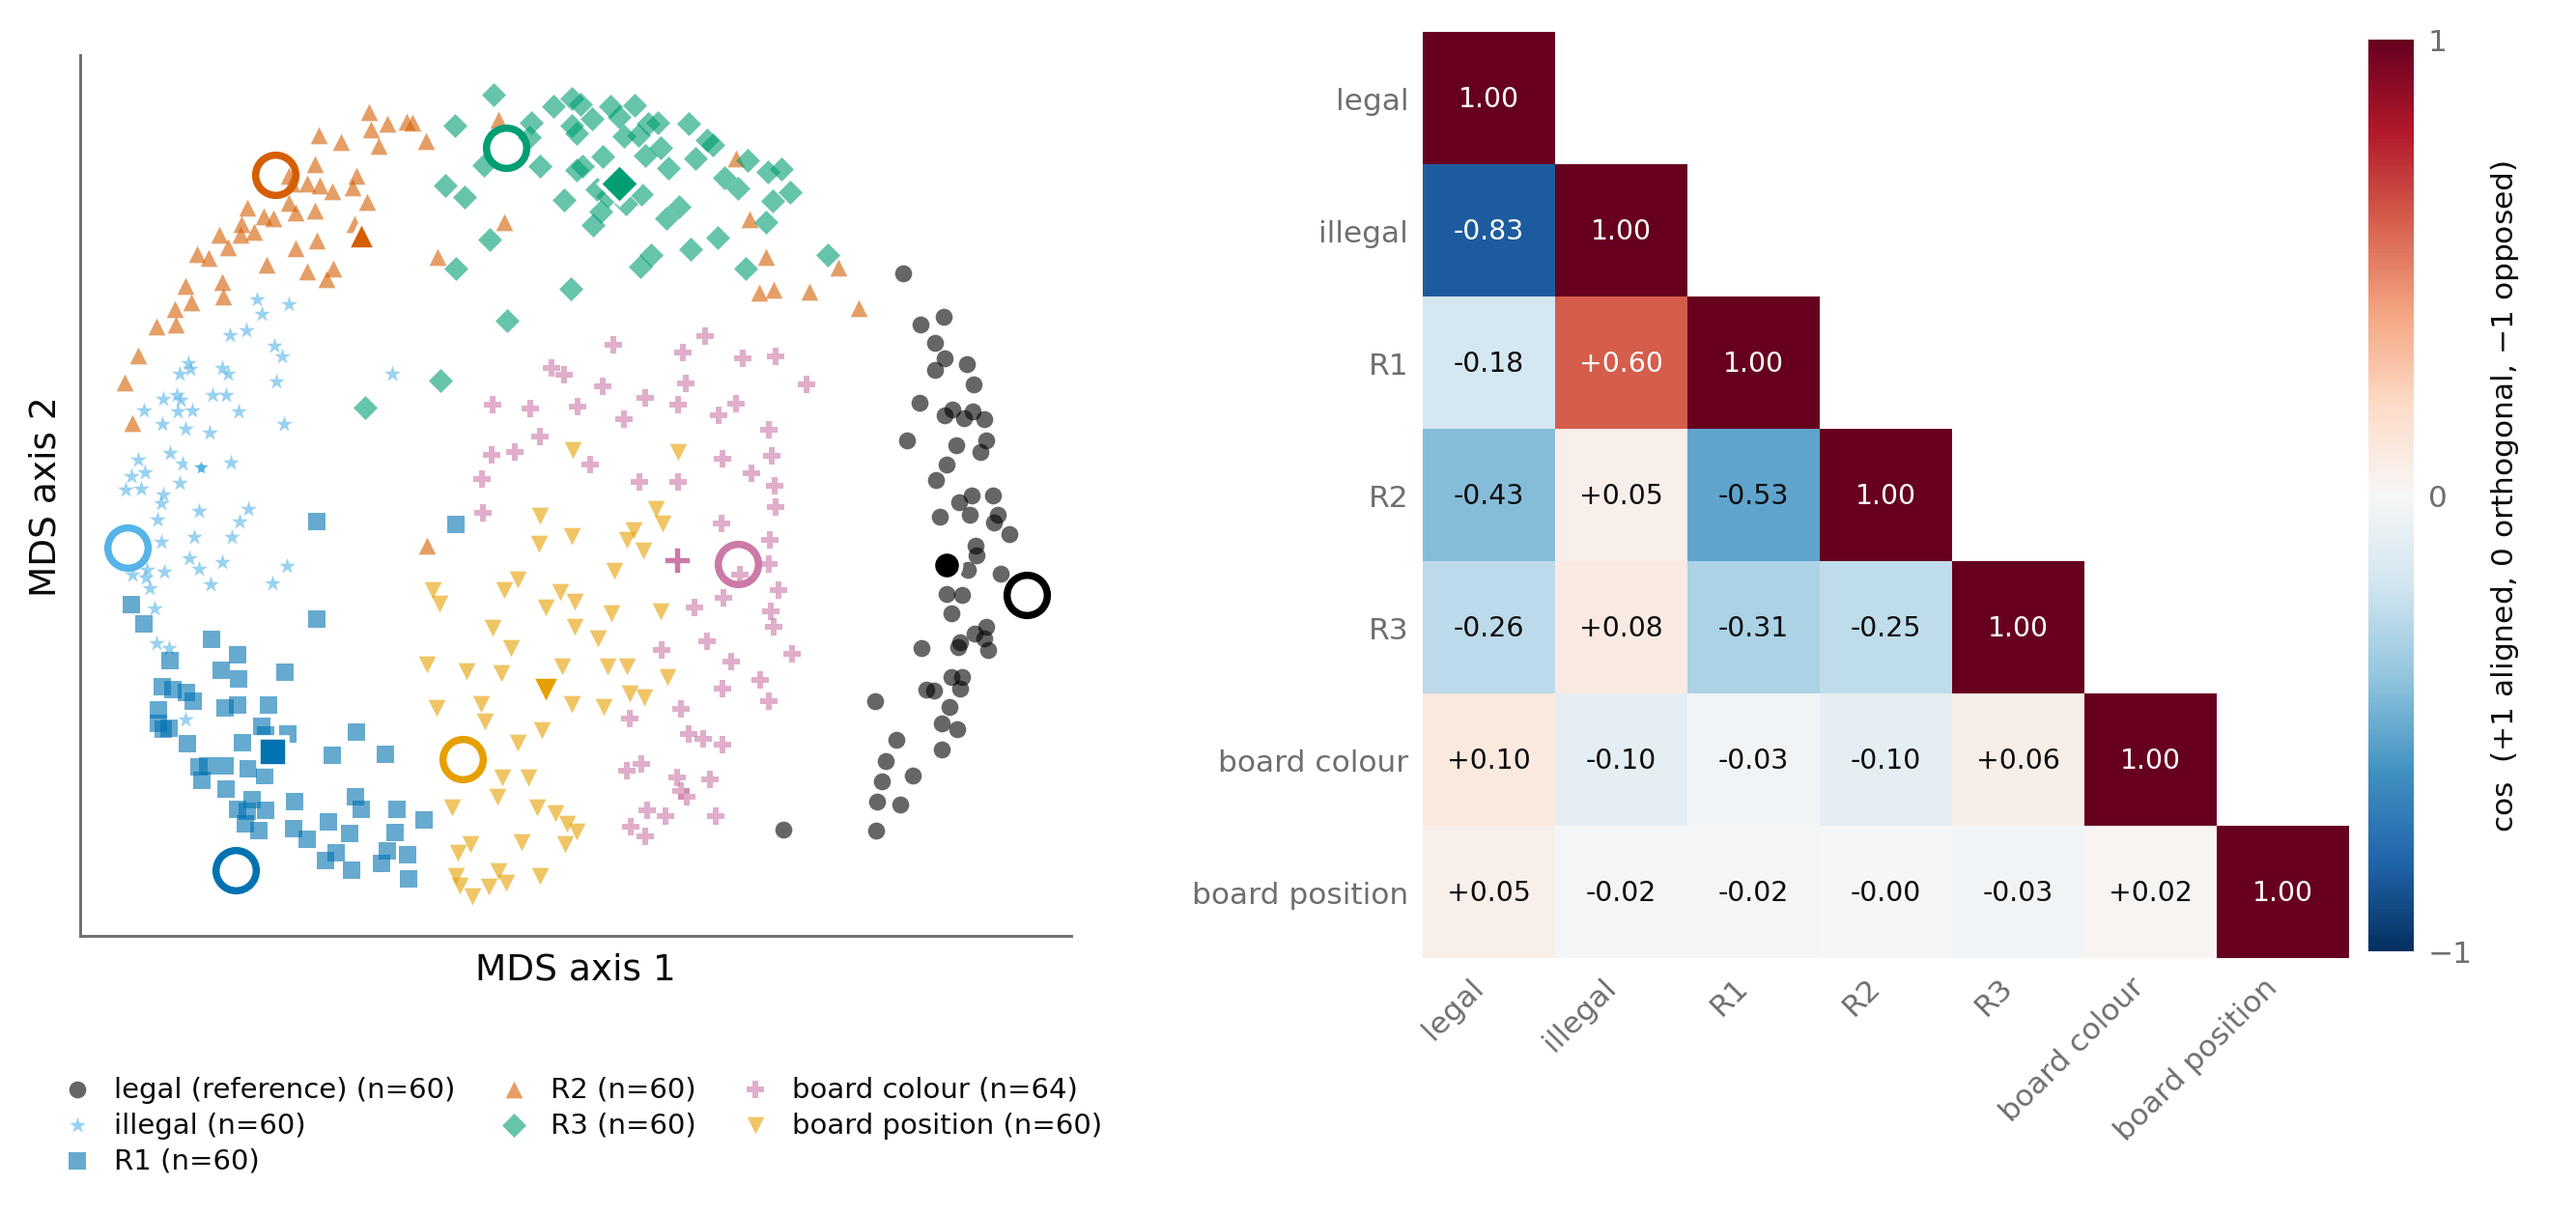
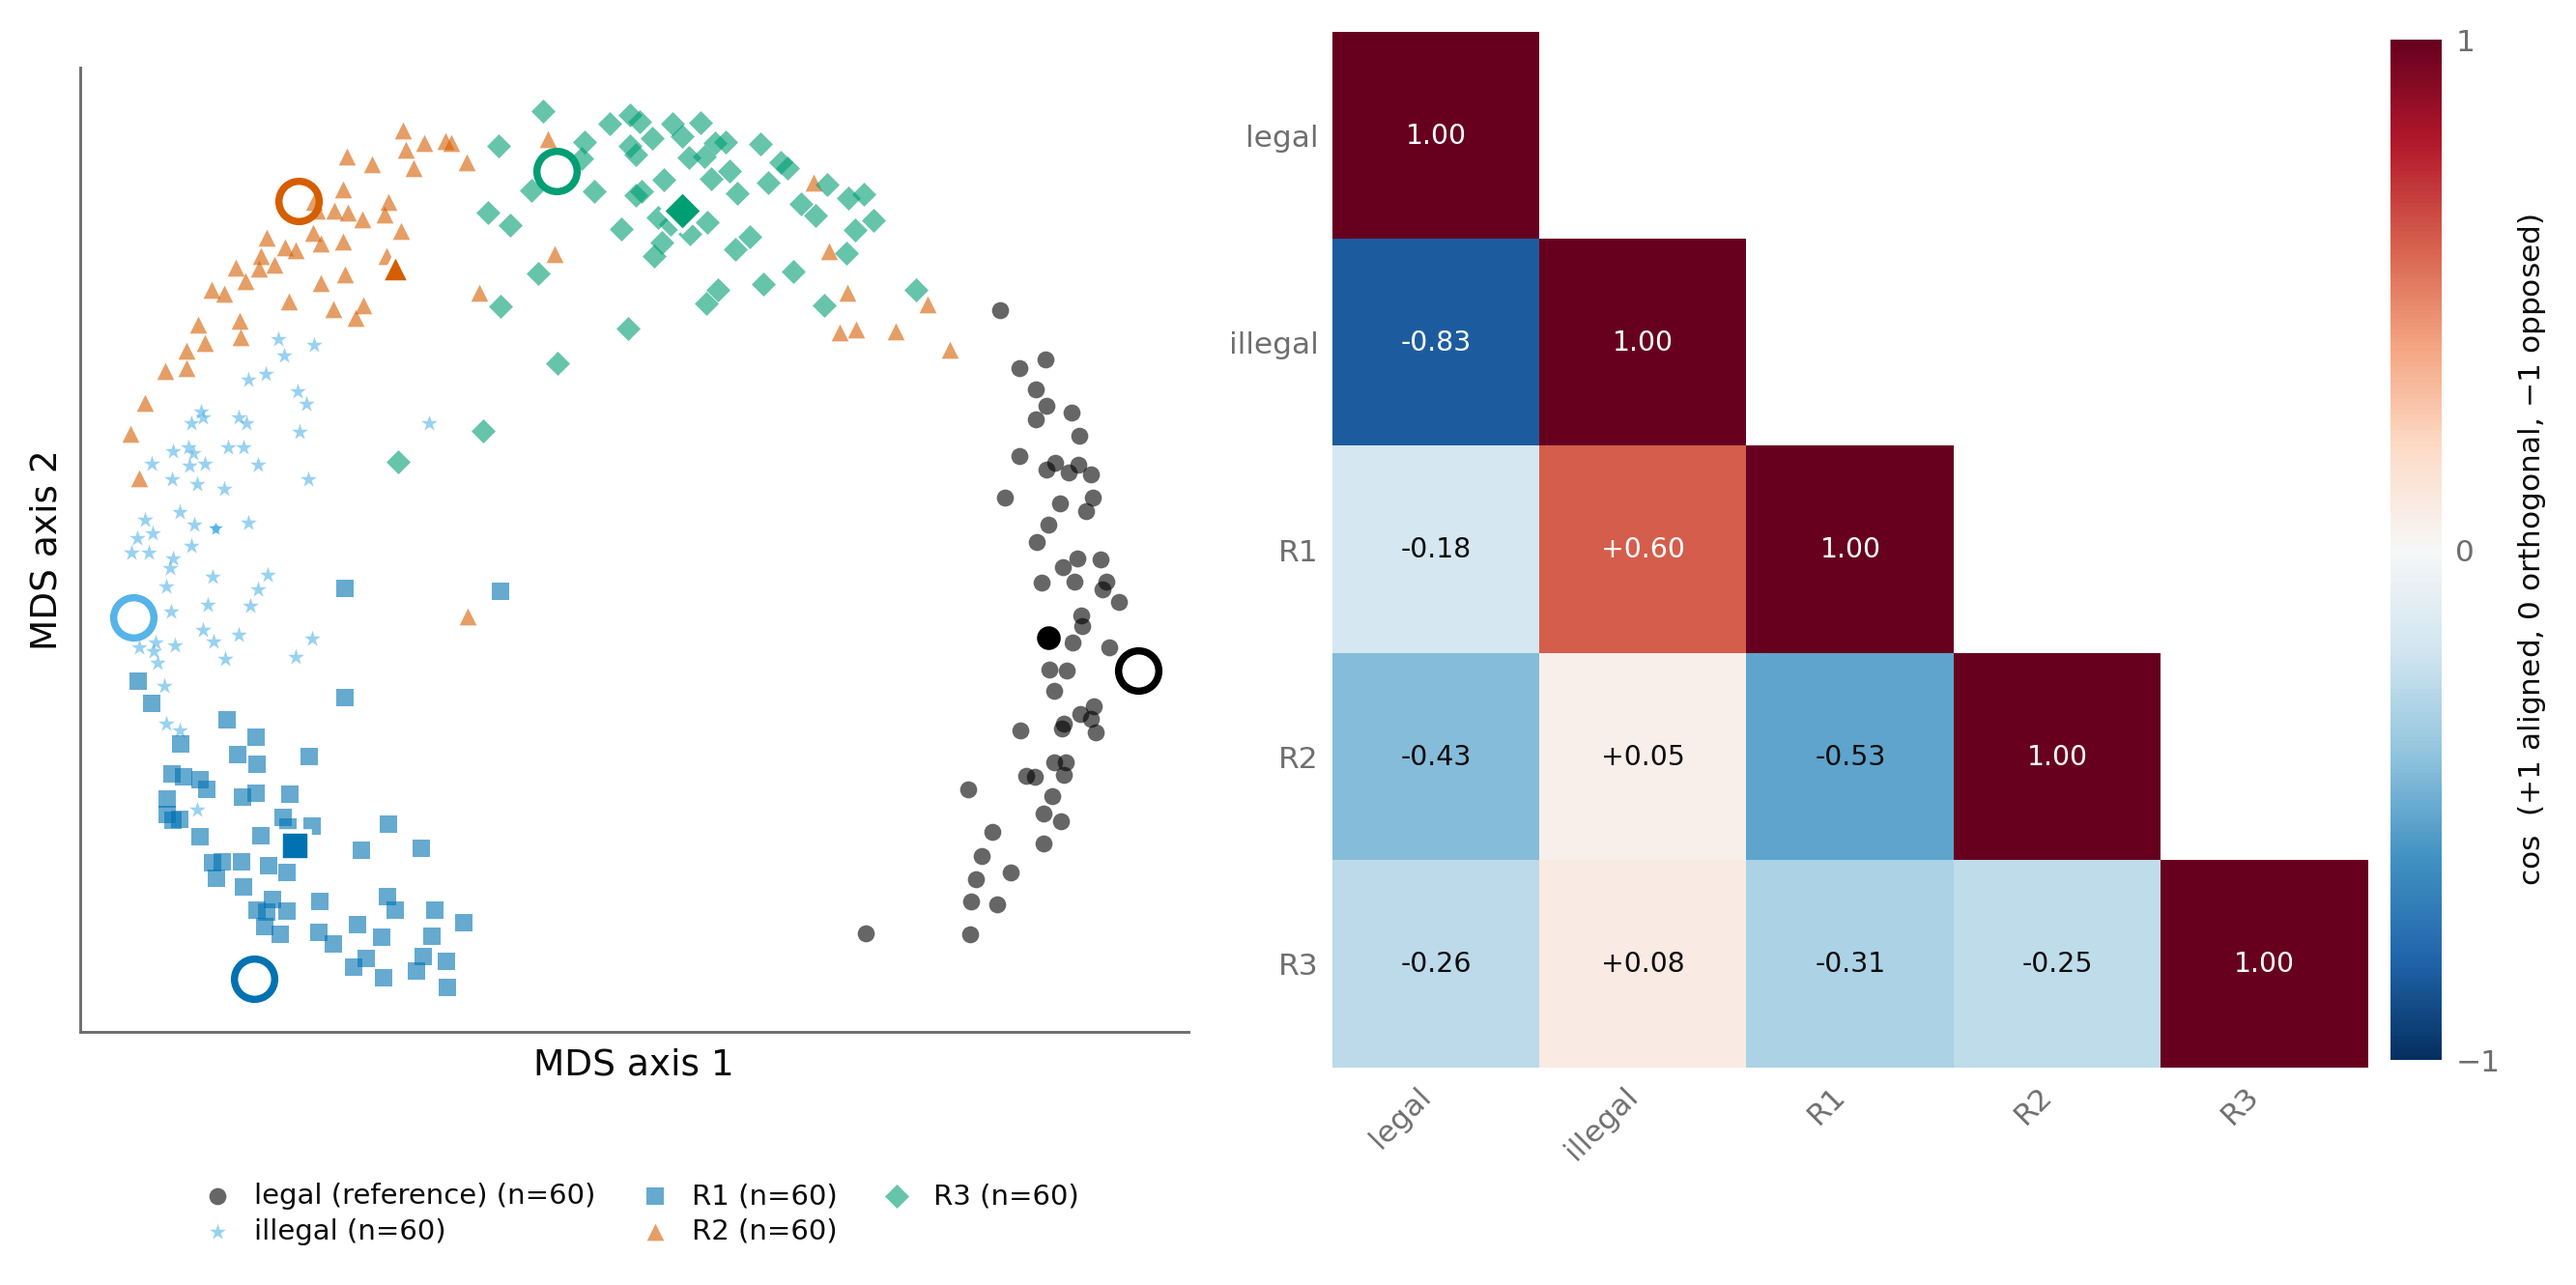
Probe geometry fig 1: the rule directions only
DIRECTION_ORDER drops colour and occupancy, so both panels lose them. The
families keep their style entries and every number in results/; the figure is
about the rule directions. The MDS is still fit on all 424 directions -- the
hole in the cloud is where the board families sat -- and the README says so.

diff --git a/src/spade/figures/paper_style.py b/src/spade/figures/paper_style.py
@@ -243,7 +243,10 @@ DIRECTION_STYLE = {
     # only ones that interpenetrate, at a luminance gap of 0.019.
     "occupancy": {"color": "#E69F00", "marker": "v", "label": "board position"},
 }
-DIRECTION_ORDER = ("legal", "illegal", "R1", "R2", "R3", "colour", "occupancy")
+# What fig 1 draws, in order. The two board families are measured -- they are in
+# every results/ table and in the README -- and not drawn: the figure is about the
+# rule directions.
+DIRECTION_ORDER = ("legal", "illegal", "R1", "R2", "R3")
 
 # Probe family and label basis: two dimensions that cross in the depth sweep.
 # The linear probe is the capacity reference, so it takes REFERENCE's black; the

diff --git a/analysis/probe_geometry/README.md b/analysis/probe_geometry/README.md
@@ -136,9 +136,11 @@ What the panels do not print, so a reader does not have to infer it:
   0.574 ± 0.007, SD over 5 draws, and it is *above* the embedding's own 0.504: the
   layout is evidence about families and never about individual squares. The committed
   probe is drawn open because it is not the family centroid — for R1 the two are 1.3
-  within-family radii apart — and for the board families that "committed" direction is
-  itself the mean of the per-square vectors, since the board probe has no pooled
-  direction of its own.
+  within-family radii apart. **The two board families are not drawn**, but the layout was
+  fit with them in it: the SMACOF configuration is over all 424 directions, so the hole in
+  the middle of the cloud is where `colour` and `occupancy` sat, and the rule families'
+  positions relative to each other are the ones that solved the full problem. Their cosines
+  are in `results/type_cosines.csv` and the tables.
 - `fig1_direction_geometry.png` / `.pdf` panel (b) — cosines are point estimates off the
   committed probes, with no interval; the game-level bootstrap for the same quantities is
   in `results/cross_probe_cosine.csv` and `results/TABLES.md`. Random unit directions in

diff --git a/PROCESS.md b/PROCESS.md
@@ -693,7 +693,12 @@ geometry**, per its own instruction to add the rule with the figure type.
 
 ---
 
-**Fig 1 dropped the ring and the title (2026-08-24).** The dashed rule/board circle was a
+**Fig 1 dropped the board families, the ring and the title (2026-08-24).** `DIRECTION_ORDER`
+is the five rule directions now; `colour` and `occupancy` keep their `DIRECTION_STYLE` entries
+and every number in `results/`, they are just not drawn. The MDS is still *fit* on all 424
+directions -- the hole in the middle of the cloud is where the board families sat. Re-fitting
+SMACOF on the five families would move every point and invalidate the fidelity numbers, so it
+is a separate decision, not a side effect of a legend change. The dashed rule/board circle was a
 statistic wearing a contour's clothes: 82.2% balanced accuracy off a 0.42° mean-angle gap, in
 a layout whose radii `illegal`'s antipodal points already distort. It still lives in
 `embed_fidelity.csv` and in the README; the panel no longer asserts it.
